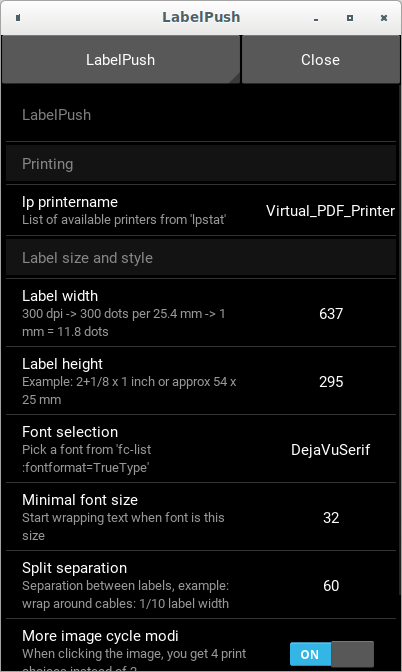
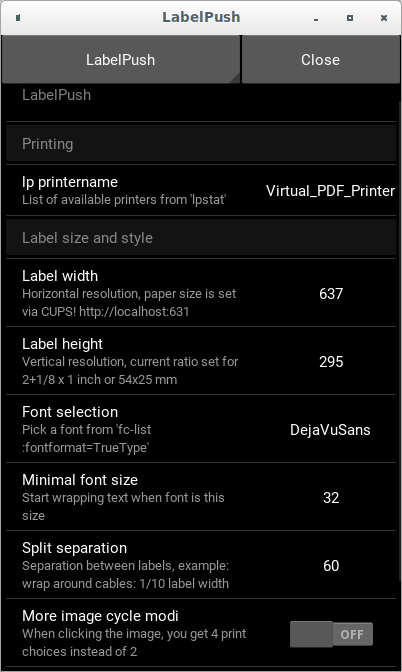
install-info and deps

diff --git a/labelpush.py b/labelpush.py
@@ -1,7 +1,7 @@
 #!/usr/bin/env python3
 # -*- mode: python -*-
 #
-# LabelPush - lightweight label printing app
+# LabelPush - Simple lightweight label printing app
 # Copyright (C) 2018 Matteljay-at-pm-dot-me
 #
 # Permission is hereby granted, free of charge, to any person
@@ -64,7 +64,7 @@ import sys
 import shutil
 
 name = 'labelpush'
-version = '2018.11.27'
+version = '2018.12.11'
 def_defaultcfg = {
     'lpname': 'default', # printer name
     'labw': 637, # labelwidth
@@ -81,9 +81,9 @@ def_jsondata = '''[
     { "type": "options", "title": "lp printername", "desc": "List of available printers from 'lpstat'",
     "section": "settings", "key": "lpname", "options": ["default"] },
     { "type": "title", "title": "Label size and style" },
-    { "type": "numeric", "title": "Label width", "desc": "300 dpi -> 300 dots per 25.4 mm -> 1 mm = 11.8 dots",
+    { "type": "numeric", "title": "Label width", "desc": "Horizontal resolution, paper size is set via CUPS! http://localhost:631",
     "section": "settings", "key": "labw" },
-    { "type": "numeric", "title": "Label height", "desc": "Example: 2+1/8 x 1 inch or approx 54 x 25 mm",
+    { "type": "numeric", "title": "Label height", "desc": "Vertical resolution, current ratio set for 2+1/8 x 1 inch or 54x25 mm",
     "section": "settings", "key": "labh" },
     { "type": "options", "title": "Font selection", "desc": "Pick a font from 'fc-list :fontformat=TrueType'",
     "section": "settings", "key": "font", "options": ["DejaVuSans"] },
@@ -581,7 +581,7 @@ if __name__ == '__main__':
     pymod_versioncheck('pillow', PILLOW_VERSION, '5.3.0') # DO NOT USE the old python-pil, i tried and it sucks
     # Kivy handles command line arguments :-)
     #from argparse import ArgumentParser
-    #parser = ArgumentParser(description='Lightweight label printing app')
+    #parser = ArgumentParser(description='Simple lightweight label printing app')
     #parser.add_argument('-c', '--config', default=['~/.config/labelpush.ini'], dest='FILE', help='configuration file to use')
     #print(parser.parse_args())
     # GUI settings

diff --git a/setup.py b/setup.py
@@ -1,6 +1,6 @@
 #!/usr/bin/env python3
 # to install directly, invoke via pip: sudo pip3 install .
-# to generate a whl file: ./setup.py bdist_wheel
+# packages for PyPI.org: ./setup.py sdist bdist_wheel && twine upload dist/*
 
 import setuptools
 import os, sys, re
@@ -30,7 +30,7 @@ setuptools.setup(
     version = extracted_version,
     author = 'Matteljay',
     author_email = 'matteljay@pm.me',
-    description = 'Lightweight label printing app',
+    description = 'Simple lightweight label printing app',
     long_description = long_description,
     long_description_content_type = 'text/markdown',
     url = 'https://github.com/Matteljay/labelpush',

diff --git a/README.md b/README.md
@@ -1,9 +1,11 @@
-# LabelPush - Lightweight label printing app
+# LabelPush
+## Simple lightweight label printing app
 
 - License: MIT License
 - Author: Matteljay
 - Language: Python (>= 3.5)
 - Homepage: https://github.com/Matteljay
+
 
 ## Screenshots
 
@@ -12,51 +14,68 @@
 ![](screenshots/03_hello_double_bold.png)
 ![](screenshots/04_settings.png)
 
-## Getting started
 
-LabelPush is a lightweight label printing application written in Python.
-It is built to be fast and simple to use. The CUPS printing system is
-used. So make sure the printer is correctly installed with all default
-settings such as label size. This link should take you to your local
+## Introduction
+
+LabelPush is a simple lightweight label printing application written in Python.
+It is built to be fast and simple to use. The CUPS printing system is used.
+Please make sure the printer is correctly installed with all correct
+settings such as label/paper size. This link should take you to your local
 settings: [CUPS-localhost](http://localhost:631/printers/)
+
 
 ## Installation
 
-Two libraries, the Kivy cross-platform GUI and Pillow imaging library
-are required for LabelPush. Arch Linux (Manjaro) is very up-to-date,
-installation will be very quick. This will be briefly explained below.
+Package dependencies are kept to a minimum. The proper installation guides
+for your system can be found via these links:
 
-Unfortunately most Debian-based systems like Linux Mint and Ubuntu Linux
-do not have the required up-to-date versions of these libraries.
+- [Kivy](https://kivy.org/doc/stable/installation/installation.html) & [Pillow](https://python-pillow.org/)
+Version 1.10.1 with SDL2 window provider are required! (NOT 1.9 with PyGame).
+An updated Python Imaging Library is always recommended with a graphical Python program. And definitely required for LabelPush.
 
-However the requirements can be compiled and installed via the Python
-package management system 'pip'. To be able to compile, install at least
-these system packages via apt-get or the Synaptic Package Manager:
+- [pip3](https://github.com/pypa/pip) & [setuptools](https://github.com/pypa/setuptools)
+These are Python 3 installation tools. Universally useful!
 
-    sudo apt-get install python3-pip python3-dev python3-setuptools \
-    libgl1-mesa-dev xclip
+- [CUPS](https://www.cups.org/)
+Printer server for macOS and other UNIX-like operating systems.
+
+### Debian Linux
+
+For most up-to-date Debian based systems like Ubuntu Linux and Linux Mint this should work *as root*:
+
+    add-apt-repository ppa:kivy-team/kivy
+    apt-get install python3-kivy python3-pip python3-setuptools
+    pip3 install --upgrade pillow labelpush
+
+### Arch Linux
+
+For the more up-to-date Arch Linux (Manjaro) simply run *as root*:
+
+    pacman -S python-kivy python-pillow python-pip python-setuptools
+    pip3 install labelpush
+
+
+## How to launch
+
+When finished, the shortcut icon can be found from your menu-bar in the **Office** category.
+If the icon does not show up, you may need to restart your desktop.
+Alternatively, open your graphical user terminal and type **labelpush.py**
+
+
+## For developers, hackers and testers
+
+Other ways to install are explained below. The above dependencies are still required!
+Only use the info below if you know what you are doing.
 
 ### Option 1
 
-Now, get a copy of LabelPush. The 'whl' file from the
-[releases-page](https://github.com/Matteljay/labelpush/releases) is
-the easiest to work with. It does not require extracting, simply run:
-
-    sudo pip3 install /path/to/file.whl
-
-All of the requirements should now get downloaded, compiled and
-automatically installed. This can take a while. When finished, the
-shortcut can be found from your menu-bar in the 'Office' category.
-If the icon does not show up, you may need to restart your desktop.
-
-### Option 2
-
-Alternatively, you can install from tar.gz or the GitHub master tree.
-First, extract the archive. Then run from within the extracted folder:
+You can install from tar.gz or the GitHub master tree.
+First, download and extract the archive from the [releases](https://github.com/Matteljay/labelpush/releases) page.
+Then run from within the extracted folder:
 
     sudo pip3 install .
 
-### Option 3
+### Option 2
 
 Alternatively, you can run it without installing to the root
 filesystem. Again, extract the downloaded archive. Then run:
@@ -64,53 +83,23 @@ filesystem. Again, extract the downloaded archive. Then run:
     pip3 install --user -r requirements.txt
     ./labelpush.py
 
-### Arch Linux
 
-Now, let's have a look at Arch Linux. Install these packages:
+## More platforms
 
-    sudo pacman -S python-kivy python-pillow python-setuptools cython
+### Other UNIX
 
-You can now choose from the 3 methods above, they will execute much
-faster as no compilations are required:
+Other flavors of Linux are untested but there is no reason for them
+not to work. Slackware, Gentoo, openSUSE, Fedora, Red Hat, Mandriva, CentOS,...
 
-    sudo pip3 install /path/to/file.whl
-    sudo pip3 install .
-    ./labelpush.py
+### Android, iPhone and Windows
 
-
-## Development version
-
-Optionally, you can use git:
-
-    git clone git://github.com/Matteljay/labelpush.git
-    cd labelpush
-
-This should install dependencies:
-
-    pip3 install --user -r requirements.txt
-
-
-## Other platforms
-
-
-### Linux distributions
-
-This application should work on other up-to-date flavors of Linux like
-Slackware, Gentoo, openSUSE, Fedora, Red Hat, Mandriva, CentOS,...
-
-FreeBSD (TrueOS) and macOS are Linux based but are also untested.
-
-
-### Windows
-
-Although Python and the required libraries are cross-platform, this
-application will not work on Windows due to the big difference in
-printer software (no CUPS). If a strong desire exists, find a way to
+These platforms probably won't work as they feature different printer
+software (no CUPS). If a strong desire exists, find a way to
 motivate me :-)
 
 
-## Contact info & Donations
+## Contact info & donations
 
-See [contact](CONTACT.md) file.
+See the [contact](CONTACT.md) file on GitHub.
 
 

diff --git a/CONTACT.md b/CONTACT.md
@@ -1,4 +1,4 @@
-# LabelPush
+# Contact Info
 
 - Author: Matteljay
 - E-mail: Matteljay-at-pm-dot-me
